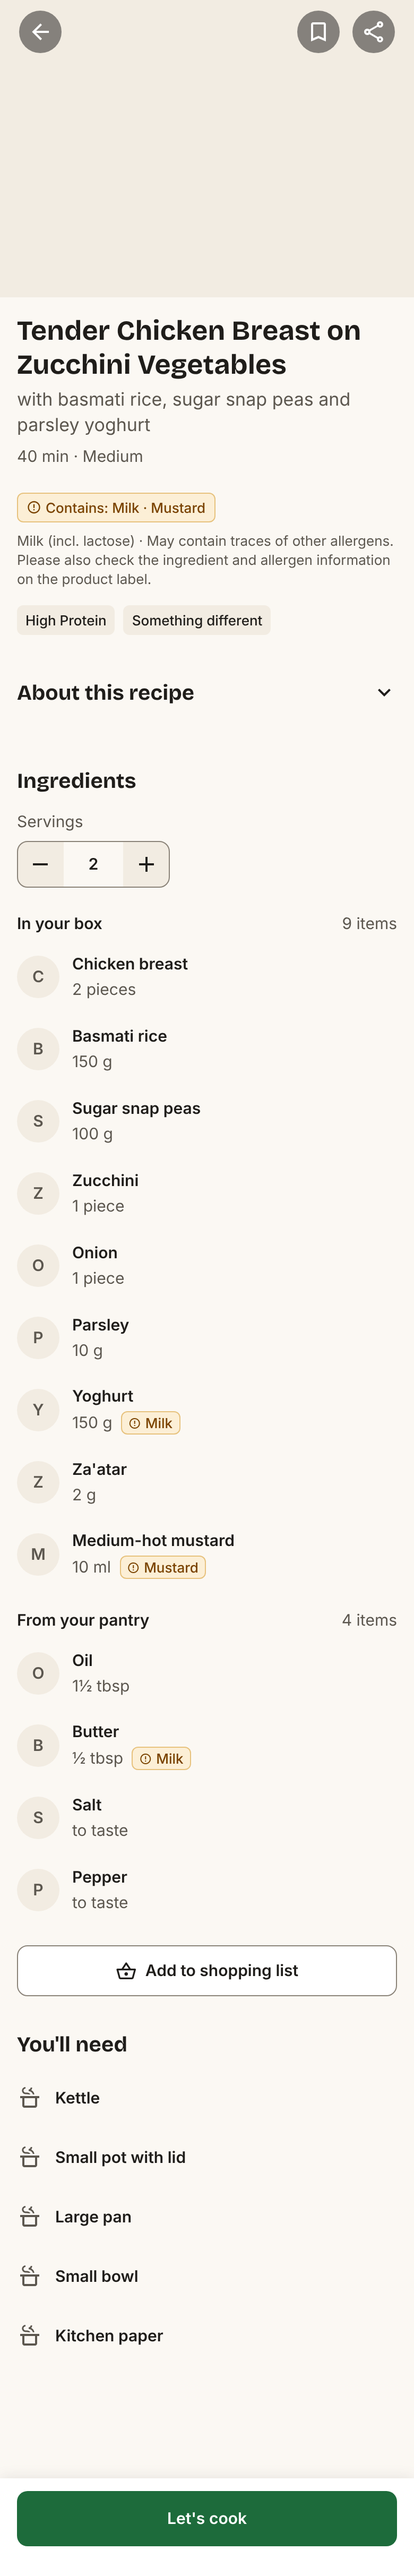
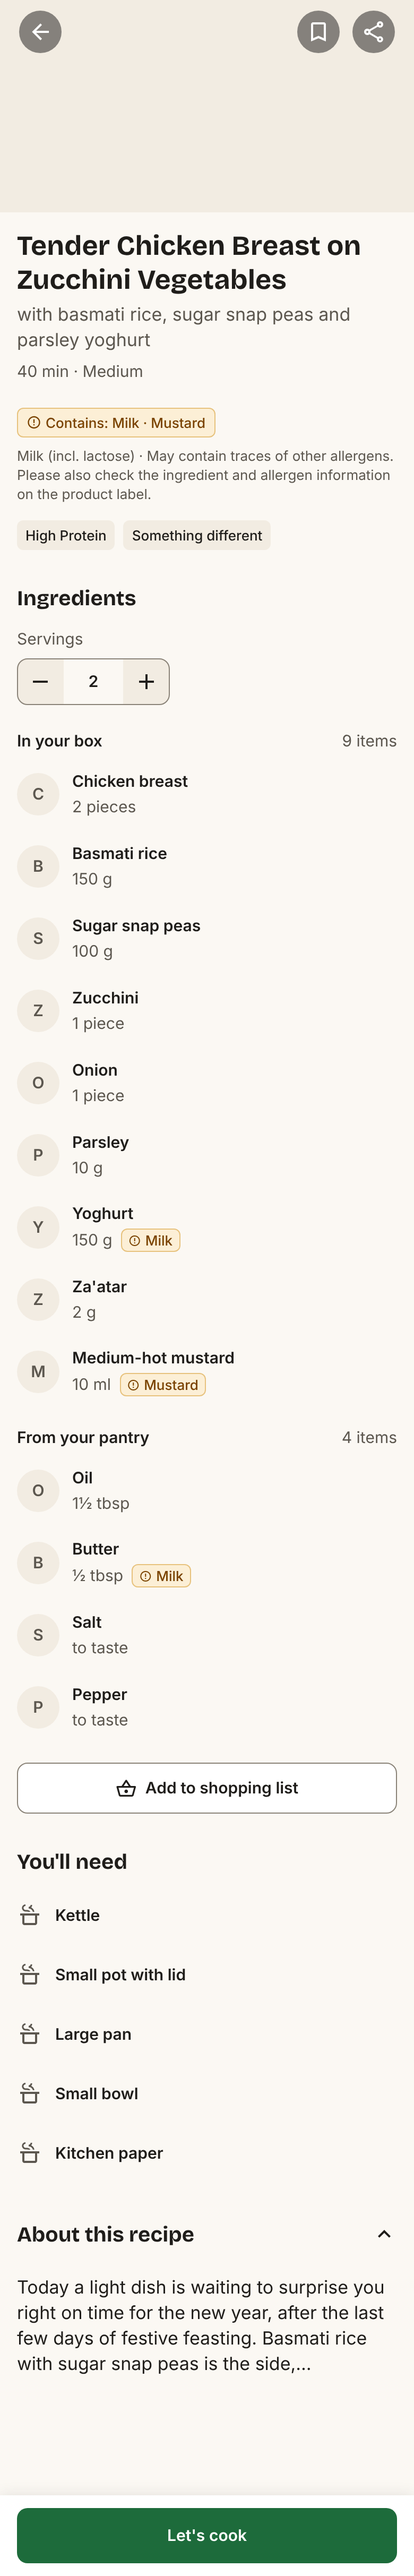
Shorten hero photo and move About below You'll need
size.image.hero 280 -> 200 and 'About this recipe' now follows the
equipment list, so the first ingredient is visible on the first screen
(top at 720 pt on a 390 x 844 phone, was 892). Screen order in
CLAUDE.md and decisions log updated; screenshots refreshed.

Claude-Session: https://claude.ai/code/session_01Nt62VDTQhttFTqkyUPVqAi

diff --git a/app/index.tsx b/app/index.tsx
@@ -25,8 +25,9 @@ const notBuiltYet = () => {};
 /**
  * Recipe detail screen, top half. Order (CLAUDE.md):
  * photo with Back / Save / Share → title, subtitle, time, difficulty → allergen row → recipe tags →
- * "About this recipe" (collapsed) → Ingredients: stepper, "In your box", "From your pantry",
- * "Add to shopping list" → "You'll need" → sticky "Let's cook".
+ * Ingredients: stepper, "In your box", "From your pantry", "Add to shopping list" → "You'll need" →
+ * "About this recipe" (collapsed) → sticky "Let's cook".
+ * "About this recipe" moved below "You'll need" on 2026-10-16 (docs/decisions.md).
  */
 export default function RecipeScreen() {
   const insets = useSafeAreaInsets();
@@ -118,15 +119,6 @@ export default function RecipeScreen() {
             ))}
           </View>
 
-          {/* About this recipe: collapsed by default */}
-          <SectionHeader
-            title="About this recipe"
-            collapsible
-            expanded={aboutOpen}
-            onToggle={() => setAboutOpen((open) => !open)}
-          />
-          {aboutOpen && <Text style={[type.body, { color: color.text.primary }]}>{recipe.description}</Text>}
-
           {/* Ingredients */}
           <SectionHeader title="Ingredients" />
           <ServingStepper value={servings} min={MIN_SERVINGS} max={MAX_SERVINGS} onChange={setServings} />
@@ -148,6 +140,15 @@ export default function RecipeScreen() {
               <IngredientRow key={item} variant="equipment" name={item} />
             ))}
           </View>
+
+          {/* About this recipe: collapsed by default, last so it doesn't push the ingredients down */}
+          <SectionHeader
+            title="About this recipe"
+            collapsible
+            expanded={aboutOpen}
+            onToggle={() => setAboutOpen((open) => !open)}
+          />
+          {aboutOpen && <Text style={[type.body, { color: color.text.primary }]}>{recipe.description}</Text>}
         </View>
       </ScrollView>
 

diff --git a/src/theme/tokens.ts b/src/theme/tokens.ts
@@ -93,7 +93,7 @@ export const size = {
   row: { ingredient: 56 },
   image: {
     ingredient: 40,
-    hero: 280, // Added: hero photo height
+    hero: 200, // Added: hero photo height (shortened from 280 so ingredients start sooner)
   },
   cta: { height: 52 },
   button: { md: 48 }, // Added: Button md height

diff --git a/docs/decisions.md b/docs/decisions.md
@@ -27,3 +27,5 @@ Decisions that aren't in the specs, with the reason. Newest at the bottom.
 | 2026-10-16 | Allergen row shows "Contains: Milk · Mustard"; the caption under it shows "Milk (incl. lactose) · May contain traces of other allergens" and the product-label note. | Keeps the tag short (Tag spec) while all allergen wording from content.md stays visible. |
 | 2026-10-16 | The description ends with "…" as in content.md. | content.md only has the cut-off text; nothing may be invented. |
 | 2026-10-16 | Amounts below ¼ never show as 0 (minimum ¼ for tbsp/pieces, 1 for g/ml). | "0 tbsp butter" would read as "leave it out". |
+| 2026-10-16 | Hero photo height `size.image.hero` 280 → 200. | Gets the ingredients closer to the first screen (analysis friction point #1). |
+| 2026-10-16 | "About this recipe" moved from above Ingredients to below "You'll need" (changes the CLAUDE.md screen order). | The description is the least-used block while cooking; above Ingredients it pushed them down and left an uneven 48 pt gap. |

diff --git a/CLAUDE.md b/CLAUDE.md
@@ -67,8 +67,8 @@ Don't improvise a new colour, size, component or variant.
 ## Screen order (top half)
 
 Photo with Back / Save / Share → title, subtitle, time, difficulty → allergen row → recipe tags →
-"About this recipe" (collapsed) → Ingredients: servings stepper, "In your box", "From your pantry",
-"Add to shopping list" → "You'll need" → sticky "Let's cook".
+Ingredients: servings stepper, "In your box", "From your pantry", "Add to shopping list" →
+"You'll need" → "About this recipe" (collapsed) → sticky "Let's cook".
 
 ## How to work
 
